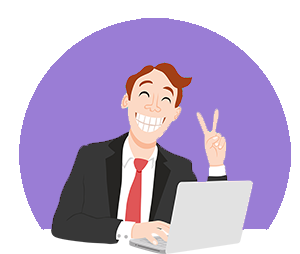
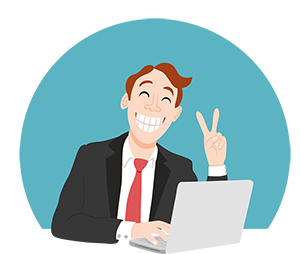
Replace homepage images and edit web copy.

diff --git a/db/schema.rb b/db/schema.rb
@@ -255,7 +255,6 @@ ActiveRecord::Schema.define(version: 20170601145525) do
     t.integer  "invited_by_id"
     t.string   "invited_by_type"
     t.integer  "invitations_count",      default: 0
-    t.string   "package"
     t.string   "telephone"
     t.string   "a_qualification"
     t.integer  "a_experience"
